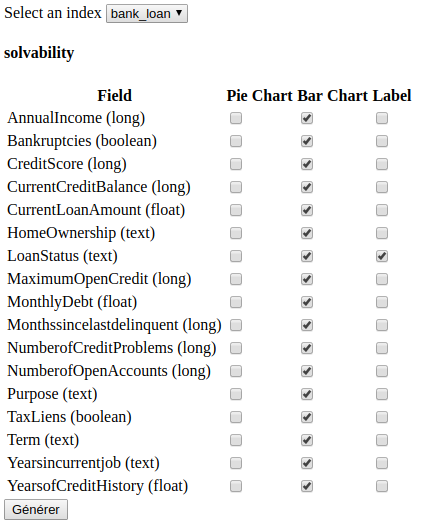
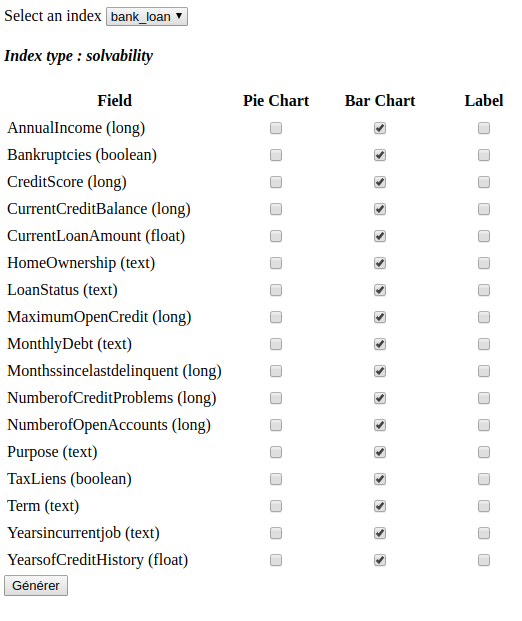
Only one label can be selected

Changed region(s): [[0.0, 0.1512, 0.9772, 0.9981], [0.0, 0.0, 0.4442, 0.121]]

diff --git a/src/main/resources/static/index.html b/src/main/resources/static/index.html
@@ -1,5 +1,6 @@
 <html>
-    <head>
+    <link>
+        <link rel="stylesheet" type="text/css" href="/static/css/feabana.css" />
         <script src="/static/js/jquery-3.2.1.min.js"></script>
     </head>
     <body>
@@ -11,6 +12,10 @@
         </form>
 
         <div id="mapping">
+
+        </div>
+
+        <div id="error">
 
         </div>
 
@@ -40,7 +45,7 @@
             function printTables(data){
                 $.parseJSON(data).forEach(function(n,i){
                     var indexType = n["indexType"];
-                    $("#mapping").append("<h4>"+indexType+"</h4>");
+                    $("#mapping").append("<h4><i>Index type : "+indexType+"</i></h4>");
                     var headers = "<thead><th>Field</th><th>Pie Chart</th><th>Bar Chart</th><th>Label</th></thead>";
                     $("#mapping").append("<table class='mappingtable' idxType='"+indexType+"'>"+headers+"</table>");
                     var fields = n["fields"];
@@ -49,7 +54,7 @@
                         $("table[idxType="+indexType+"]").append(line);
                     });
 
-                    $("#mapping").append("<input type='button' id='generate' value='G&eacute;n&eacute;rer' />");
+                    $("#mapping").append("<input type='button' id='generate' value='Generate' />");
 
                     $("#generate").on('click', function(){
                         var mappedArr = [];
@@ -61,6 +66,12 @@
                         var index = $("#indexes option:selected").val();
                         var label = $("#mapping input[label]:checked").attr("field");
                         var data = '{"index":"'+index+'","viz":'+mapped+',"label":"'+label+'"}';
+
+                        if($("#mapping input[label]:checked").length > 1){
+                            $("#error").html("<p style='color:red;'>Error : multiple labels selected</p>");
+                            setTimeout(function(){ $("#error").empty(); }, 3000);
+                            return;
+                        }
 
                         $.ajax({
                           type: "POST",
@@ -83,7 +94,8 @@
                           }
                         });
                     });
-                    //one and only one label should be selected
+
+
                 });
             }
         </script>

diff --git a/src/main/resources/static/css/feabana.css b/src/main/resources/static/css/feabana.css
@@ -1,0 +1,15 @@
+table{
+    text-align: center;
+}
+
+table tr > td:first-child{
+  text-align: left;
+}
+
+table tr{
+    height: 25px;
+}
+
+table td{
+  min-width: 100px;
+}
